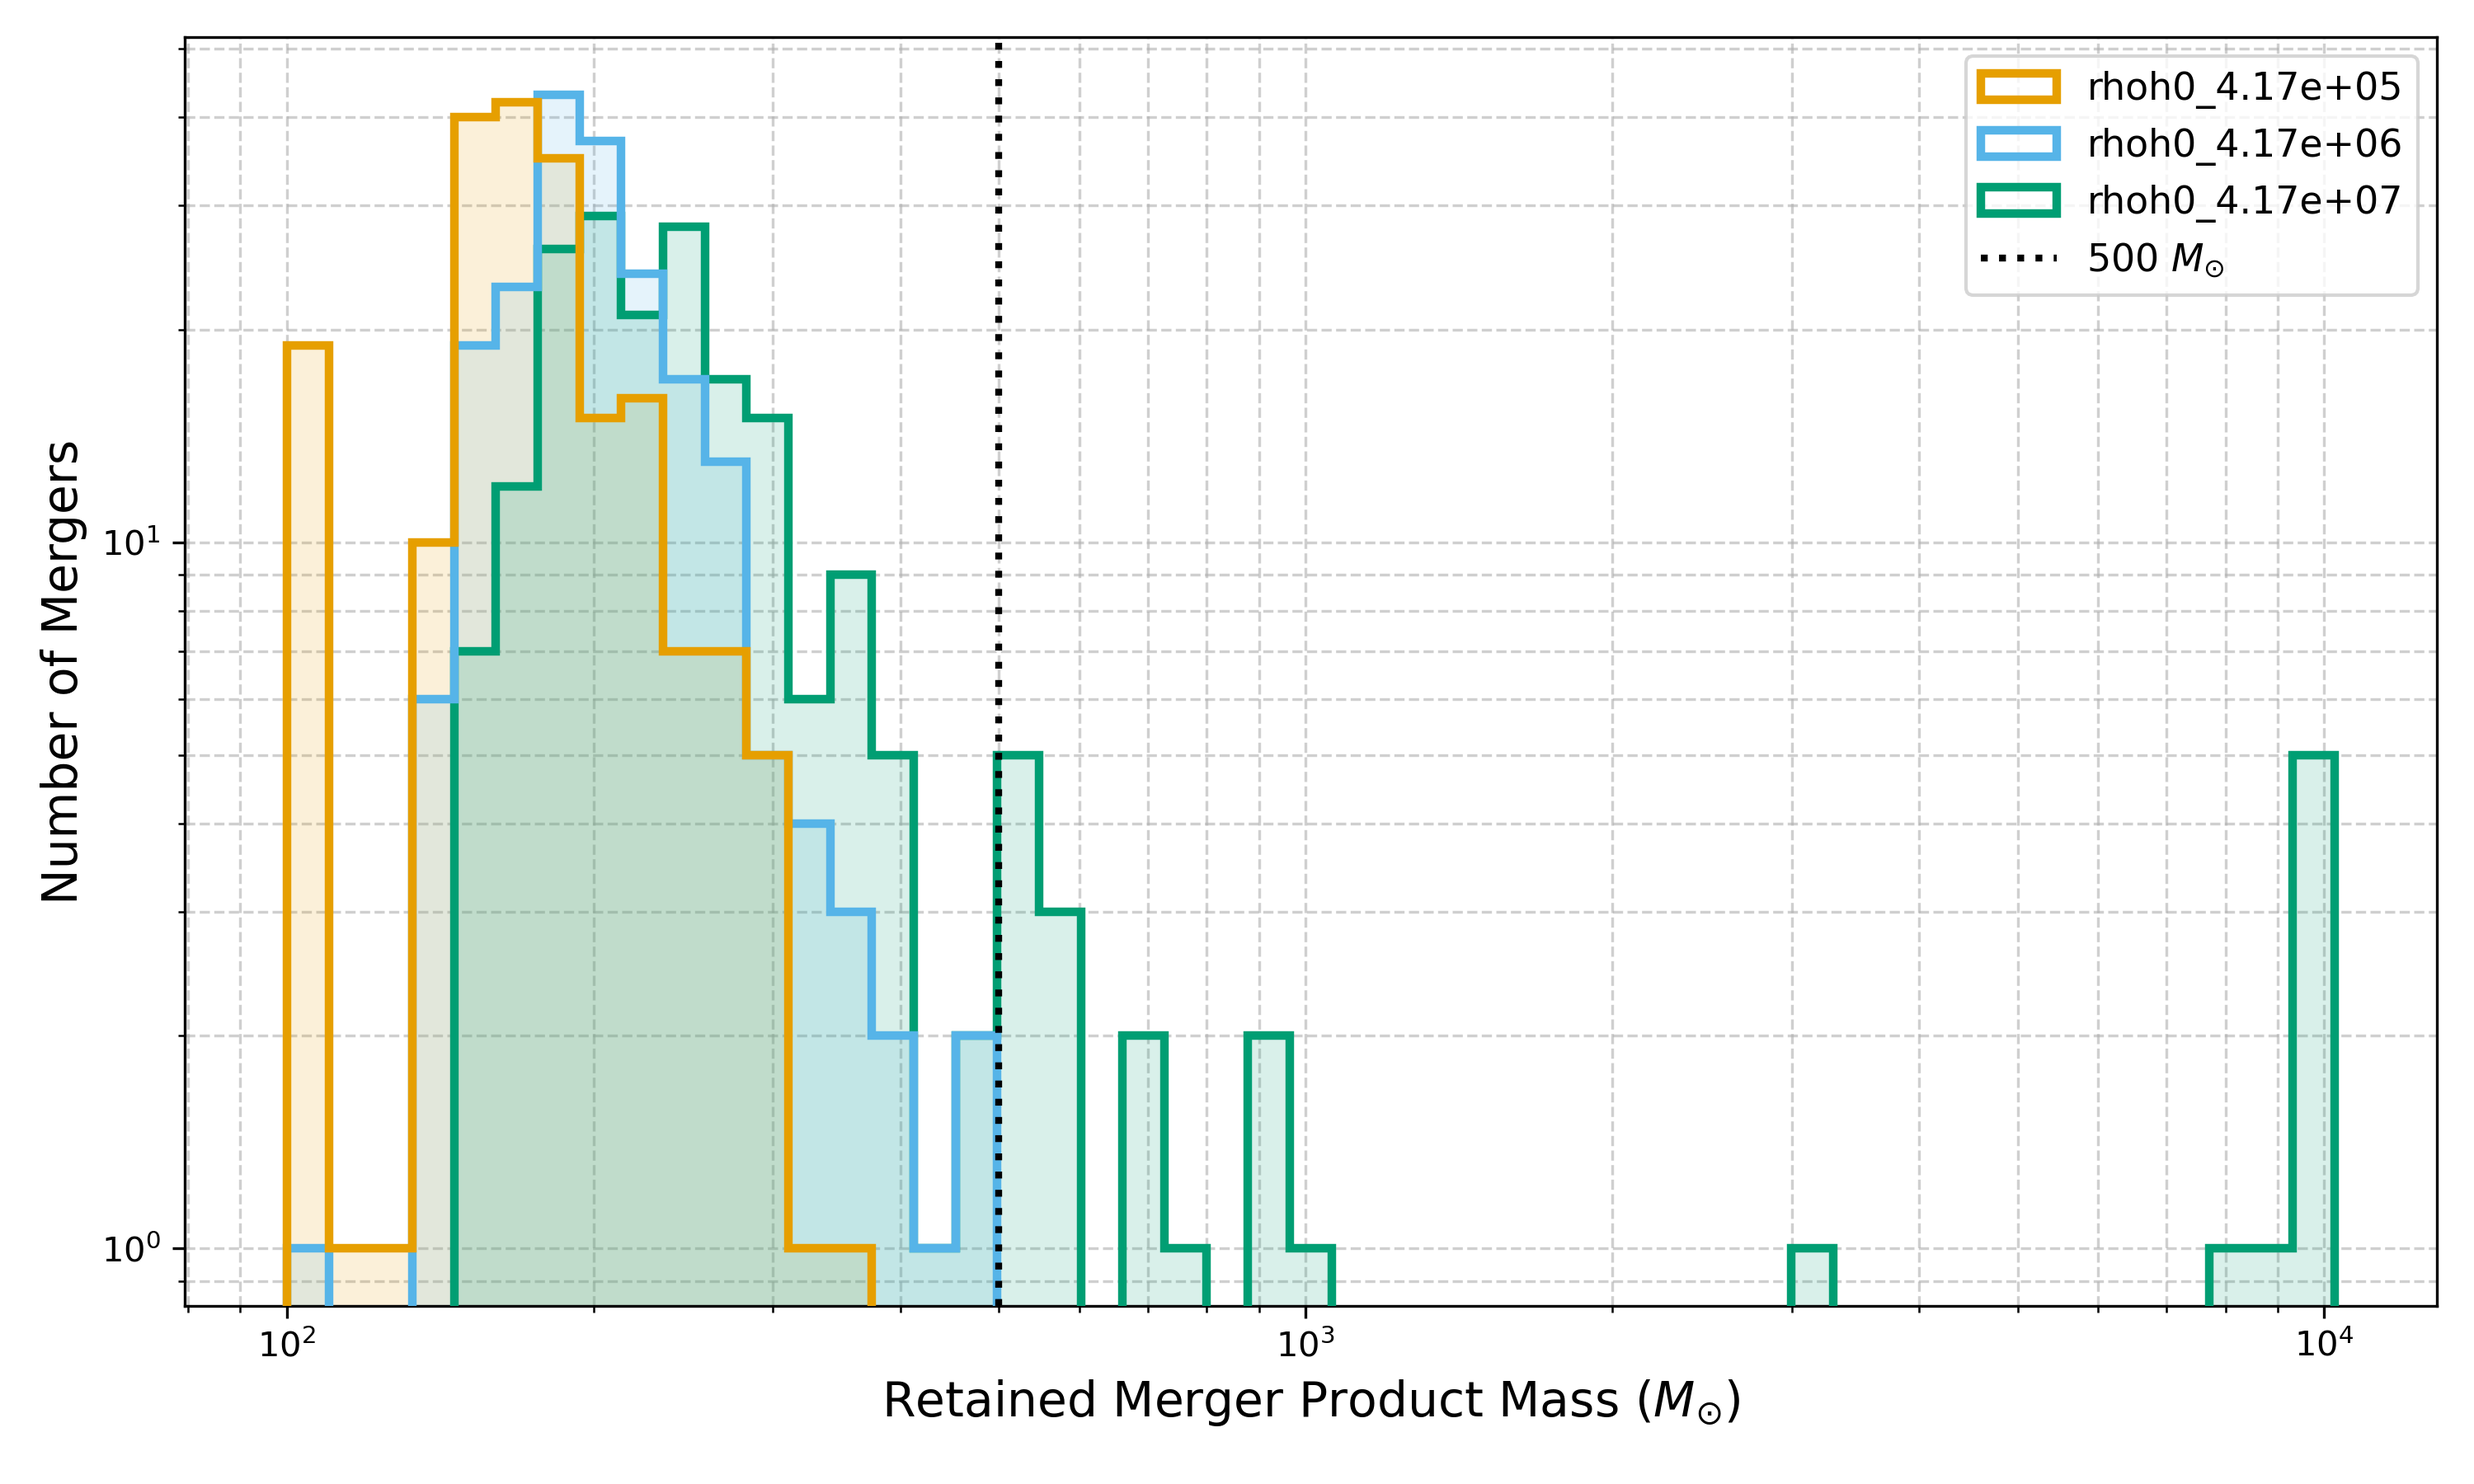
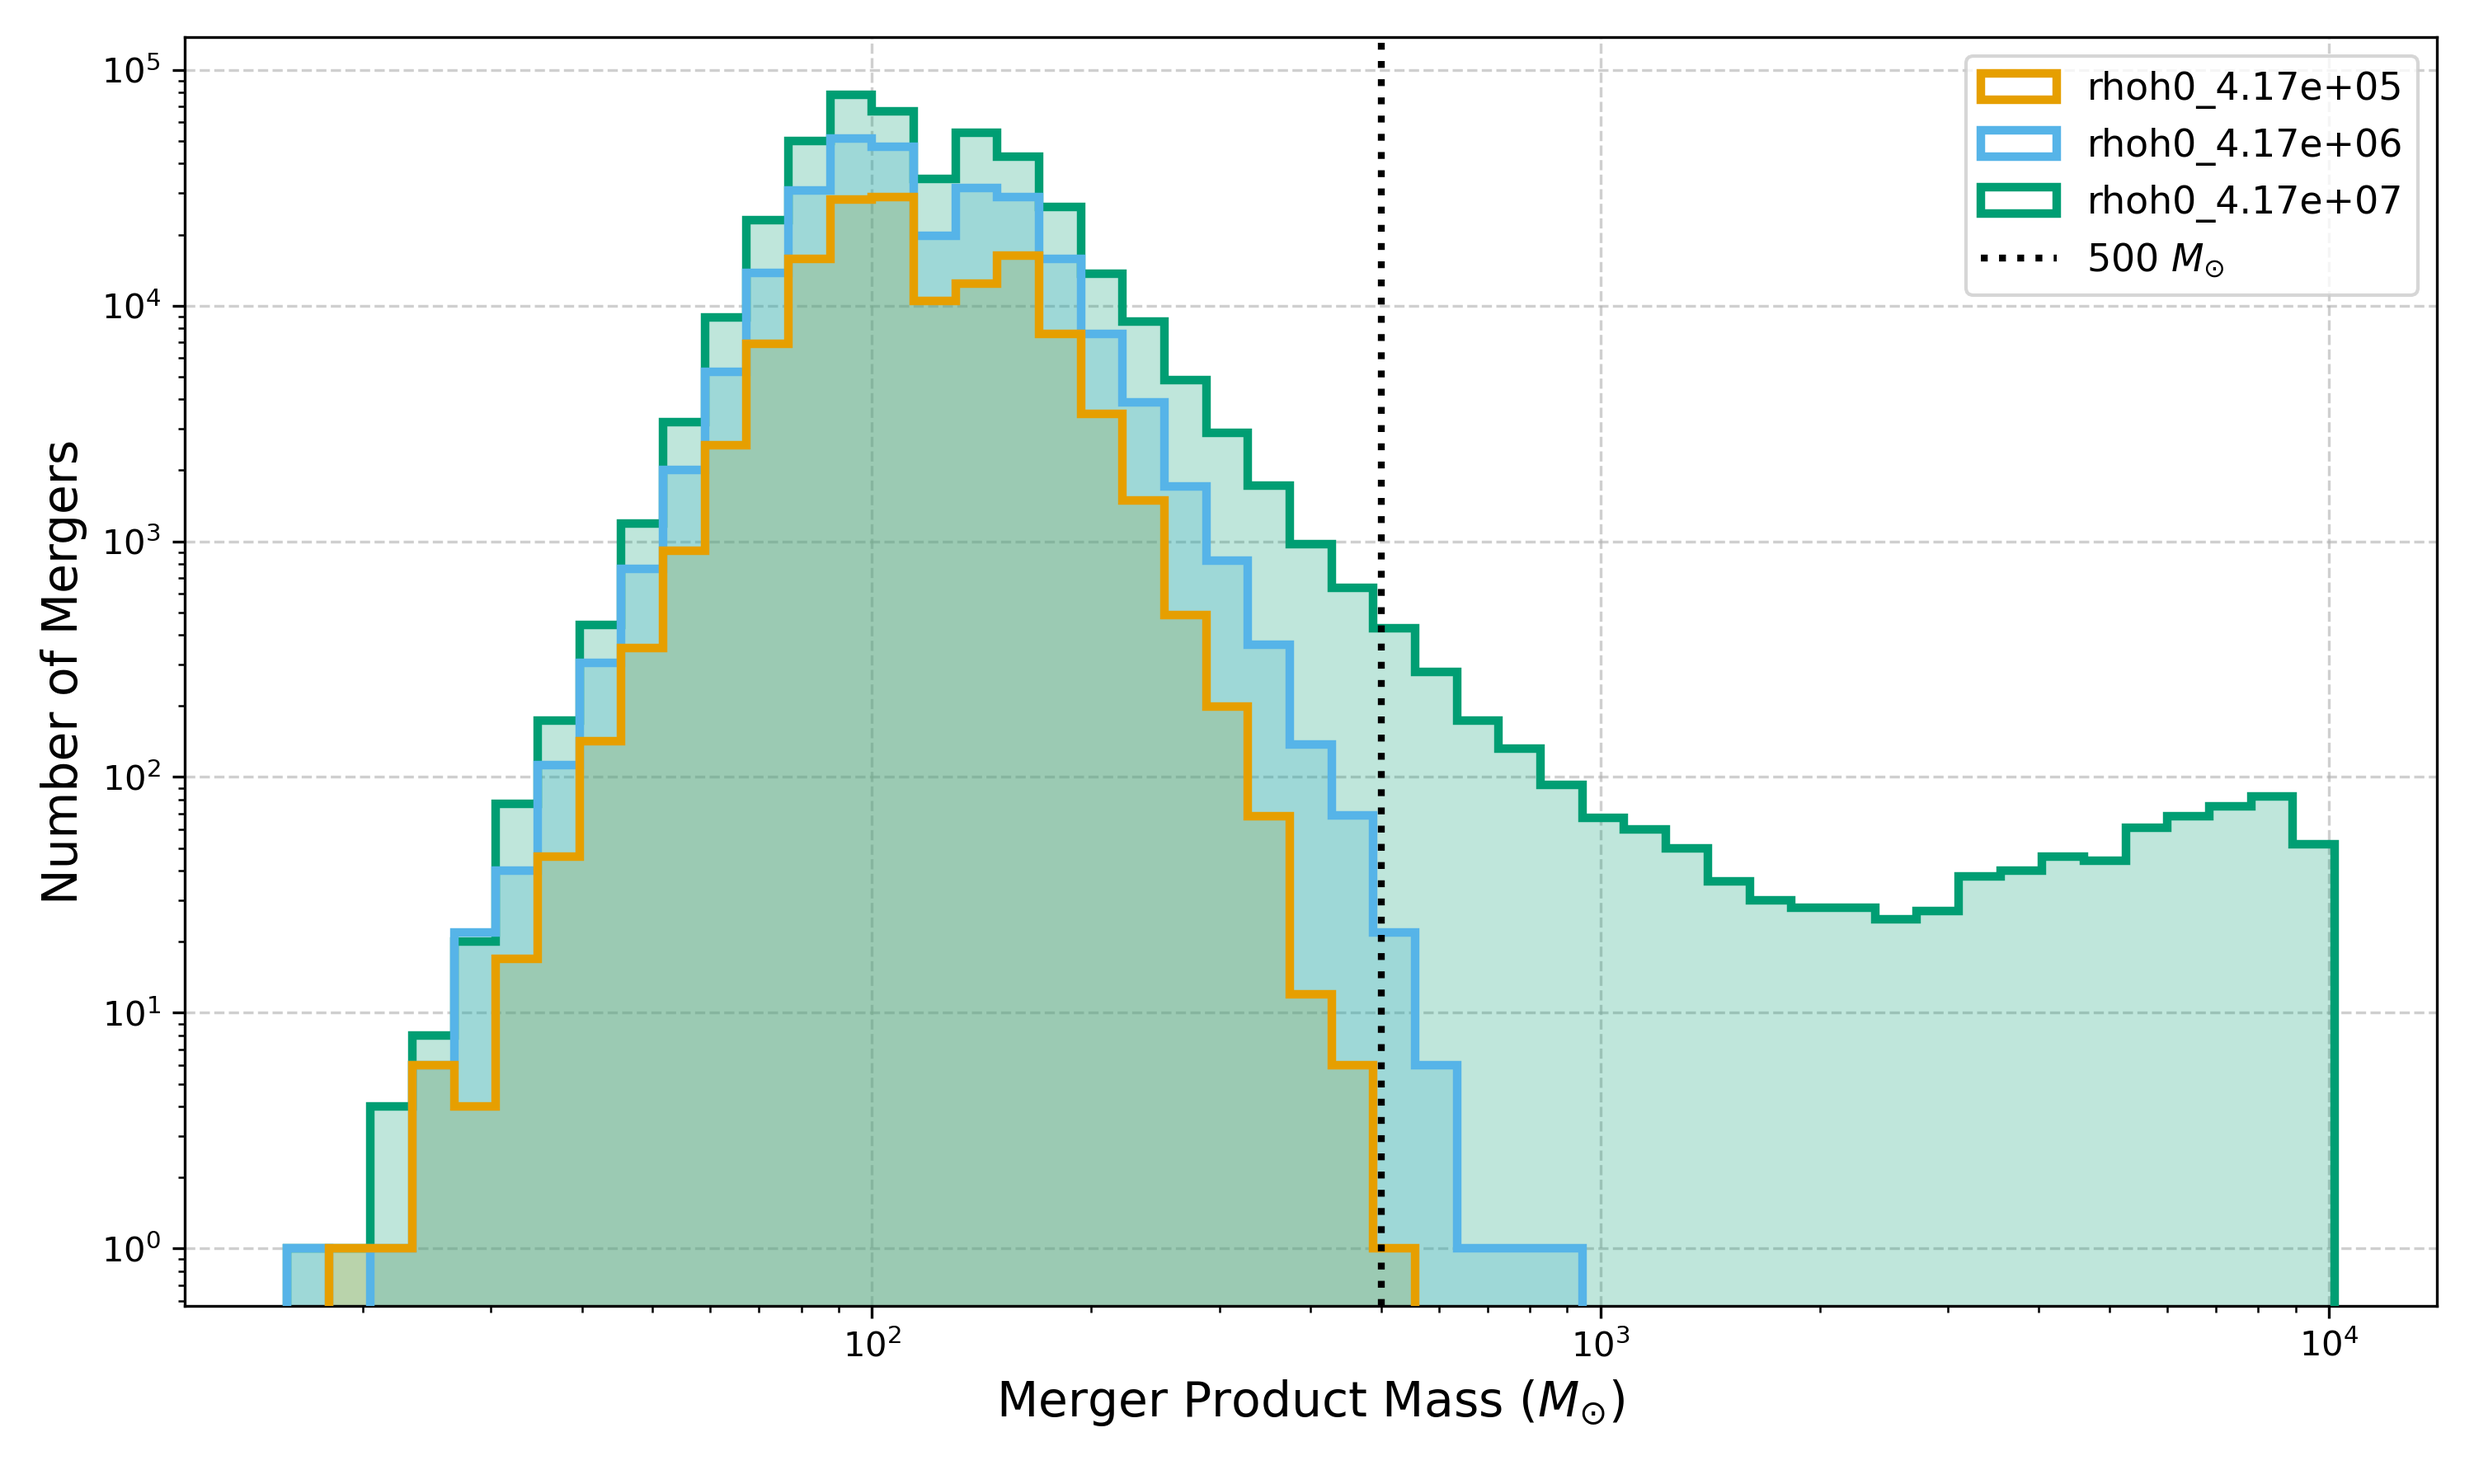
updated plotting

diff --git a/analyse_many_results.py b/analyse_many_results.py
@@ -5,6 +5,7 @@ Description:
 Aggregates results from multiple configuration folders within a parent directory.
 Plots probability of forming a Black Hole above a certain mass,
 p(M_BH > M), for different initial conditions.
+ALSO plots overlaid histograms of ALL retained merger masses.
 
 Usage:
     python analyse_many_results.py --parent_dir <PATH_TO_PARENT_FOLDER>
@@ -49,10 +50,10 @@ def get_config_name(config_dict):
 def load_config_data(config_dir):
     """
     Reads all run_*/data.json under a config folder.
-    Returns (masses_array, config_dict). Config is taken from the stats block
-    of the first readable file (same source of truth as analyse_results.py).
+    Returns (final_masses_array, all_merger_masses_array, config_dict).
     """
-    masses = []
+    final_masses = []
+    all_merger_masses = [] # <--- NEW: To store every m_rem
     config = None
 
     data_files = sorted(config_dir.glob("run_*/data.json"))
@@ -71,14 +72,20 @@ def load_config_data(config_dir):
         if config is None and all(k in stats for k in CONFIG_KEYS):
             config = {k: stats[k] for k in CONFIG_KEYS}
 
+        # 1. Get Final IMBH Mass (for the probability plot)
         mass = stats.get('mIMBH_final', None)
         if mass is not None and not np.isnan(mass):
-            masses.append(float(mass))
+            final_masses.append(float(mass))
+            
+        # 2. Get All Merger Masses (for the histogram)
+        mergers = data.get('mergers', [])
+        for m in mergers:
+            m_rem = m.get('m_rem')
+            if m_rem is not None:
+                all_merger_masses.append(float(m_rem))
 
-    return np.array(masses), config
+    return np.array(final_masses), np.array(all_merger_masses), config
 
-# Probability of forming a Black Hole above a certain mass threshold,
-# p(M_BH > M), for different initial conditions.
 def main():
     parser = argparse.ArgumentParser(description="analyse multiple configuration results.")
     parser.add_argument("--parent_dir", "--parent-dir", dest="parent_dir", type=str, required=True,
@@ -103,36 +110,60 @@ def main():
         return
     print(f"Found {len(config_dirs)} configurations in {parent_path}.")
 
-    # Load data and find max mass
+    # Load data
     all_data = {}
-    global_max_mass = 0.0
+    global_max_final_mass = 0.0
+    
+    # We need a global min/max for the histogram specifically
+    global_min_merger_mass = float('inf')
+    global_max_merger_mass = 0.0
+
     for config_dir in config_dirs:
         print(f"Looking at {config_dir.name} :)")
-        masses, config = load_config_data(config_dir)
+        # Unpack the new return value
+        final_masses, merger_masses, config = load_config_data(config_dir)
 
-        if masses.size == 0:
+        if final_masses.size == 0 and merger_masses.size == 0:
             print("No BHs? Something's weird.")
             continue
         if config is None:
             print("Config not readable from stats. Make sure the stats block is properly formatted.")
 
-        all_data[config_dir.name] = {'masses': masses, 'config': config}
-        global_max_mass = max(global_max_mass, float(np.max(masses)))
-        print(f"Found {masses.size} runs. Max Mass: {np.max(masses):.2f} Msun")
+        all_data[config_dir.name] = {
+            'final_masses': final_masses, 
+            'merger_masses': merger_masses, # Store the full list
+            'config': config
+        }
+        
+        # Track ranges for Probability Plot (Final Masses)
+        if final_masses.size > 0:
+            global_max_final_mass = max(global_max_final_mass, float(np.max(final_masses)))
+            
+        # Track ranges for Histogram (All Merger Masses)
+        if merger_masses.size > 0:
+            global_min_merger_mass = min(global_min_merger_mass, float(np.min(merger_masses)))
+            global_max_merger_mass = max(global_max_merger_mass, float(np.max(merger_masses)))
+            
+        print(f"Found {final_masses.size} runs. Max Final Mass: {np.max(final_masses) if final_masses.size > 0 else 0:.2f} Msun. Total Mergers: {merger_masses.size}")
 
     if not all_data:
         print("No data found to plot.")
         return
 
+    # ==========================================
+    # PLOT 1: Probability p(M_BH > M)
+    # ==========================================
+    
     # X-axis grid: 100 to biggest IMBH formed across all runs
-    x_min = 100
-    x_max = global_max_mass
+    x_min = 100.0
+    x_max = global_max_final_mass
     if x_max <= x_min:
         print(f"Largest IMBH ({x_max:.1f} Msun) <= {x_min:.0f} Msun; "
               f"extending axis to 1e3 for a valid log plot.")
         x_max = 1e3
+        
     mass_thresholds = np.logspace(np.log10(x_min), np.log10(x_max), 500)
-    print(f"\nPlotting mass range: {x_min:.0f} to {x_max:.2f} Msun")
+    print(f"\nPlotting probability mass range: {x_min:.0f} to {x_max:.2f} Msun")
 
     # What ICs vary across the folders (for the legend)
     varying_params = [
@@ -141,11 +172,13 @@ def main():
     ]
     print(f"ICs being varied: {varying_params}")
 
-    # Plotting
     plt.figure(figsize=(10, 6))
     for i, folder_name in enumerate(sorted(all_data.keys())):
-        masses = all_data[folder_name]['masses']
+        # Use final_masses for this plot
+        masses = all_data[folder_name]['final_masses']
         config = all_data[folder_name]['config']
+
+        if masses.size == 0: continue
 
         # p(M_BH > M) = 1 - (#masses <= M)/N
         m_sorted = np.sort(masses)
@@ -168,17 +201,13 @@ def main():
     plt.xlim(x_min, x_max)
     plt.ylim(0, 1.05)
    
-
-    # Major and minor ticks 
     ax = plt.gca()
-
-    # Tick appearance
     ax.tick_params(axis='both', which='major', length=7, width=1.2)
     ax.tick_params(axis='both', which='minor', length=4, width=0.8)
 
     plt.grid(True, which='major', linestyle='--', alpha=0.7)
     plt.grid(True, which='minor', linestyle=':', alpha=0.35)
-    plt.legend( fontsize=12, title_fontsize=13, loc='best')
+    plt.legend(fontsize=12, title_fontsize=13, loc='best')
     
     plt.tight_layout()
 
@@ -188,16 +217,35 @@ def main():
     print(f"\nPlot saved to {output_path}")
     
     
+    # ==========================================
+    # PLOT 2: Overlaid Histograms (ALL MERGERS)
+    # ==========================================
     
-    # Plotting Overlaid Histograms
     fig, ax = plt.subplots(figsize=(10, 6))
     
-    # Define a common bin array so all histograms are directly comparable
-    bins = np.logspace(np.log10(x_min), np.log10(x_max), 50)
+    # Use the GLOBAL min/max calculated from ALL merger masses (m_rem)
+    # This ensures the plot starts from the smallest BH (~5-10 Msun), not 100.
+    hist_x_min = global_min_merger_mass
+    hist_x_max = global_max_merger_mass
+    
+    # Safety check for log scale
+    if hist_x_min <= 0: hist_x_min = 1.0 
+
+    print(f"\nPlotting histogram mass range: {hist_x_min:.2f} to {hist_x_max:.2f} Msun")
+
+    # Define common bins covering the full actual mass range
+    bins = np.logspace(
+        np.log10(hist_x_min),
+        np.log10(hist_x_max),
+        50
+    )
     
     for i, folder_name in enumerate(sorted(all_data.keys())):
-        masses = all_data[folder_name]['masses']
+        # Use merger_masses for this plot
+        masses = all_data[folder_name]['merger_masses']
         config = all_data[folder_name]['config']
+        
+        if masses.size == 0: continue
         
         if varying_params:
             label = ", ".join(PARAM_LABEL[k](config[k]) for k in varying_params)
@@ -206,23 +254,21 @@ def main():
             
         color = COLOURS[(i + 1) % len(COLOURS)]
         
-        # We use histtype='step' with a thick line. This is the cleanest way to overlay 
-        # multiple distributions without the colors blending into a muddy mess.
+        # We use histtype='step' with a thick line.
         ax.hist(masses, bins=bins, histtype='step', linewidth=2.5, 
                 color=color, label=label, zorder=10-i)
         
-        # Add a very faint shaded fill under the line for easier visual tracking
-        ax.hist(masses, bins=bins, histtype='stepfilled', alpha=0.15, 
+        # Add a very faint shaded fill under the line
+        ax.hist(masses, bins=bins, histtype='stepfilled', alpha=0.25, 
                 color=color, zorder=2)
 
-    ax.set_xlabel('Retained Merger Product Mass ($M_{\odot}$)', fontsize=14)
+    ax.set_xlabel('Merger Product Mass ($M_{\odot}$)', fontsize=14)
     ax.set_ylabel('Number of Mergers', fontsize=14)
     plt.axvline(x=500, color=COLOURS[0], linestyle=':', linewidth=2, label='500 $M_{\odot}$', zorder=100)
  
-    # A log scale on the y-axis is highly recommended for merger mass distributions
     ax.set_yscale('log') 
     ax.set_xscale('log') 
-    ax.grid(True, linestyle='--', alpha=0.6, which='both')
+    ax.grid(True, linestyle='--', alpha=0.6, which='major')
     ax.legend(fontsize=11, loc='best')
     
     plt.tight_layout()
@@ -230,7 +276,7 @@ def main():
     hist_path = parent_path / "mass_histograms.png"
     plt.savefig(hist_path, dpi=300)
     plt.close()
-    print(f"\nPlot saved to {hist_path}")
+    print(f"Plot saved to {hist_path}")
 
 
 if __name__ == "__main__":
